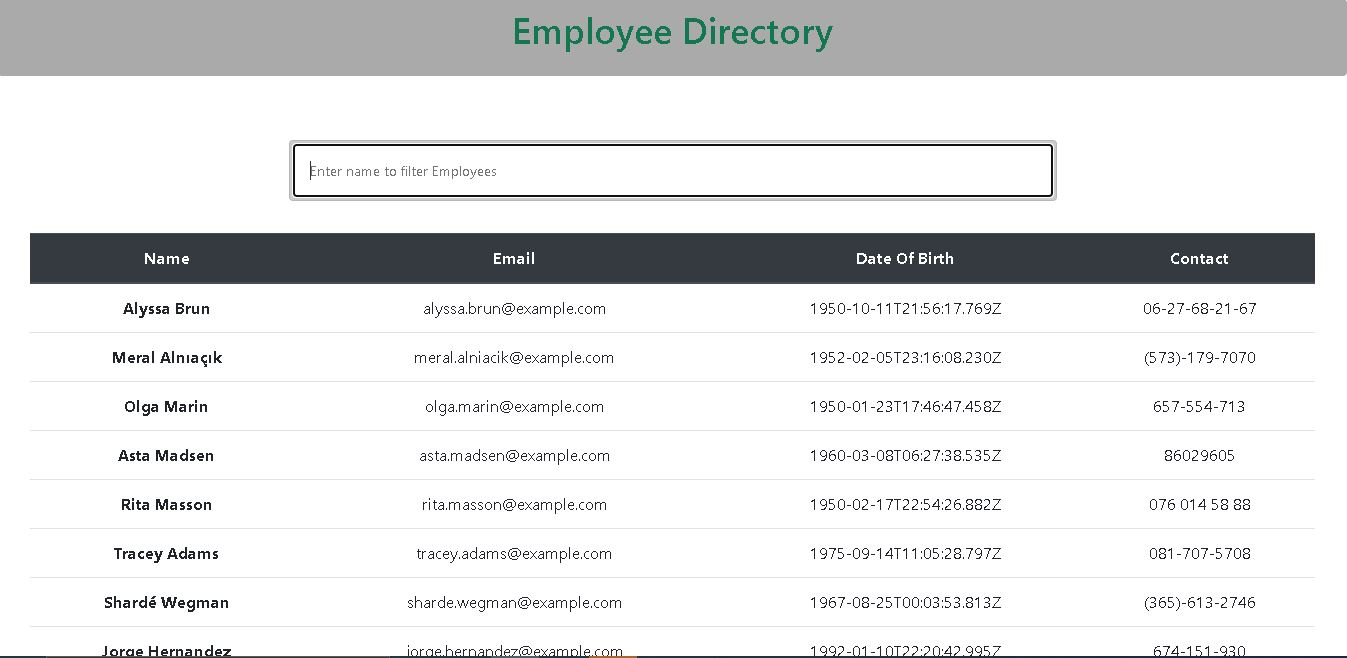
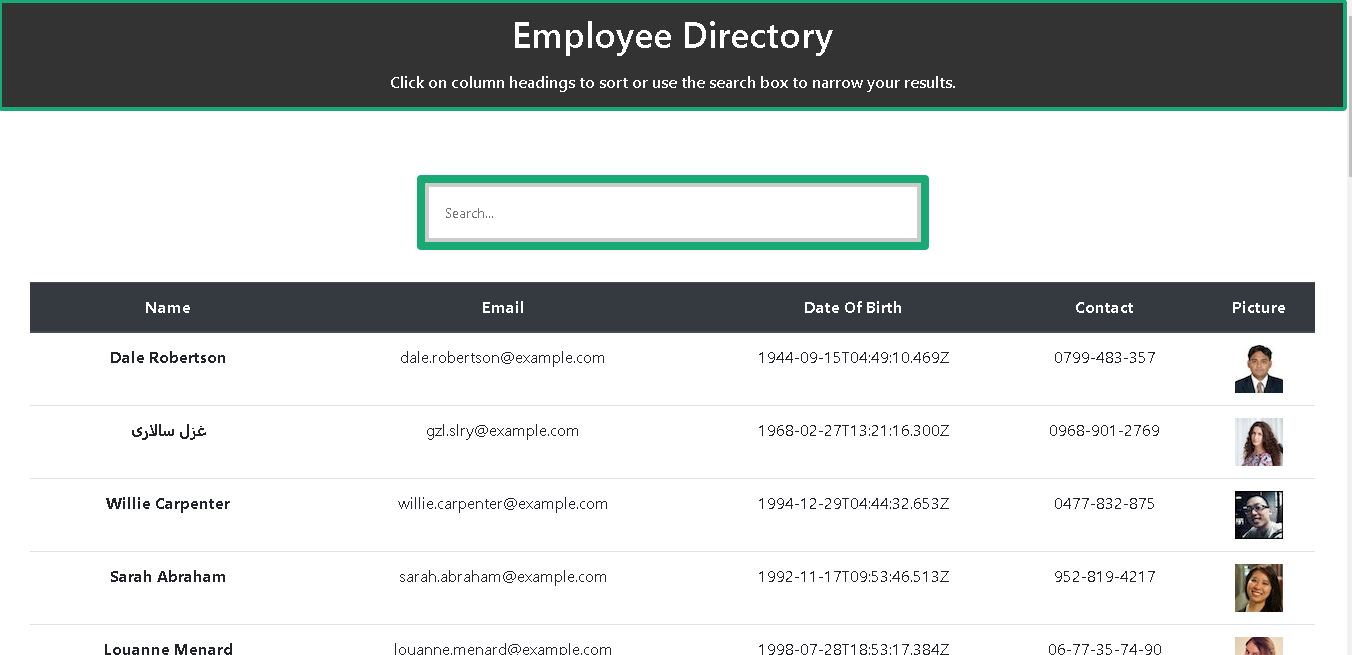
added README

diff --git a/src/container/App.js b/src/container/App.js
@@ -6,9 +6,11 @@ import Table from "../components/Table/Table";
 import API from "../utils/API";
 
 function App() {
-  // state constants to store results from api-call
+  // state constant to store results from api-call
   const [result, setResult] = useState([]);
+  // state constant to store filtered string entered by user
   const [filter, setFilter] = useState("");
+  // state constant to store the order of the data and property clicked
   const [sortField, setSortField] = useState({
     propertyClicked: "",
     orderBy: "ascending",
@@ -30,18 +32,30 @@ function App() {
       );
     }
   };
+  // function to filter data by name, email , contact & dob.
   const filterData = (data) => {
     let resultAfterFilter = data.filter(
-      (employee) => employee.name.toLowerCase().indexOf(filter) > -1
+      (employee) =>
+        employee.name.toLowerCase().indexOf(filter) > -1 ||
+        employee.email.toLowerCase().indexOf(filter) > -1 ||
+        employee.dob.toLowerCase().indexOf(filter) > -1 ||
+        employee.contact.toLowerCase().indexOf(filter) > -1
     );
     return resultAfterFilter;
   };
+  // This function is called when user enters something in the search box and 
+  //it gets stored to filter state variable
   const handleChange = (event) => {
     setFilter(event.target.value);
     console.log(event.target.value);
   };
 
+  // This function is called when user click any of the column headings 
+  // and on every alternative clicks the data gets sorted in ascending and descending order
   const handleClick = (propertyClickedKey) => {
+
+    // logic to handle the order. If the order is ascending on next click it is changed to descending. 
+    // And the current orderState and property clicked gets stored to sortField variable. 
     let sortedOrder = "ascending";
     if (
       sortField.propertyClicked === propertyClickedKey &&
@@ -54,16 +68,19 @@ function App() {
     sortEmployees(sortedOrder, propertyClickedKey);
   };
 
+  // This hook is invoked when the page is loaded
   useEffect(() => {
     // call API and set the result using set result
     API.fetchEmployees()
       .then((res) => {
+        console.log(res.data);
         let formattedEmpDetails = res.data.results.map((emp) => {
           return {
             name: `${emp.name.first} ${emp.name.last}`,
             email: emp.email,
             dob: emp.dob.date,
             contact: emp.cell,
+            url: emp.picture.thumbnail,
           };
         });
         setResult(formattedEmpDetails);

diff --git a/src/components/Table/Table.js b/src/components/Table/Table.js
@@ -1,3 +1,4 @@
+// Component for showing Table section based on result
 import "./Table.css";
 
 const Table = (props) => {
@@ -6,10 +7,12 @@ const Table = (props) => {
       <table className="table">
         <thead className="thead-dark">
           <tr>
+          
             <th scope="col" className ="tableHead" onClick={()=>{props.handleClick("name")}}>Name </th>
             <th scope="col" className ="tableHead"onClick={()=>{props.handleClick("email")}}>Email</th>
             <th scope="col" className ="tableHead" onClick={()=>{props.handleClick("dob")}}>Date Of Birth</th>
             <th scope="col" className ="tableHead" onClick={()=>{props.handleClick("contact")}}>Contact</th>
+            <th scope="col" className ="tableHead" >Picture</th>
           </tr>
         </thead>
         <tbody>
@@ -20,6 +23,8 @@ const Table = (props) => {
                 <td>{emp.email}</td>
                 <td>{emp.dob}</td>
                 <td>{emp.contact}</td>
+                <td><img alt="picture" src={emp.url}/></td>
+
               </tr>
             );
           })}

diff --git a/src/components/Filter/Filter.jsx b/src/components/Filter/Filter.jsx
@@ -1,21 +1,19 @@
+// Component for Filter section
 const Filter = (props) => {
   return (
     <div>
-      <form className="bg-moon-gray mw7 center pa1 br2-ns ba b--black-10 mb4">
+      <form className="bg-moon-gray mw6 center pa1 br2-ns ba b--green bw3 mb4">
         <fieldset className="cf bn ma0 pa0">
-
           <div className="cf">
-
             <input
               className="f6 f5-1 input-reset bn fl black-80 bg-white pa3 lh-solid w-100"
-              placeholder="Enter name to filter Employees"
+              placeholder="Search..."
               type="text"
               name="employeeName"
               value={props.filter}
               id="employeeName"
-              onChange = {props.handleChange}
+              onChange={props.handleChange}
             />
-
           </div>
         </fieldset>
       </form>

diff --git a/src/components/Header/Header.jsx b/src/components/Header/Header.jsx
@@ -1,7 +1,9 @@
+// Component for Header section
 const Header = () => {
   return (
-    <article className="mw10 center ph3 ph5-ns tc br2 pv2 bg-light-silver dark-green mb5">
+    <article className="mw10 center ph3 ph5-ns tc br2 pv2 bg-dark-gray ba bw2 b--green white mb5">
       <h1 className="fw6 f3 f2-ns lh-title mt0 mb3">Employee Directory</h1>
+      <h6 className="white">Click on column headings to sort or use the search box to narrow your results.</h6>
     </article>
   );
 };

diff --git a/README.md b/README.md
@@ -10,23 +10,14 @@
 
   *  Helps the user to sort every columns of the table in ascending order
 
-  * Filter the employees by name.
+  * Filter the employees by name, dob, contact & email.
 
   > This UI application is created with React. The application is broken into three components - Filter, Header, Table. And it has one container - App.js
 
-## List Of Employees
-* Initial Budget DB
+## Screen Shot
 ![List Of Employees](./public/images/listOfEmp.jpg)
 
-### Filter Employee List By Name
-* Manifest
-![Filter By Name](./public/images/filterByName.jpg)
 
-### Index Database
-* Sort Employee List In Ascending Order
-![Sort Employee List In Ascending Order](./public/images/sortedInAscendOr.jpg)
-
-)
 
 ### Live application
 
@@ -60,7 +51,7 @@
   ## Usage 
    Run the following command to start the server
   ```bash
-  node server.js
+  npm start
   ```
 
 
